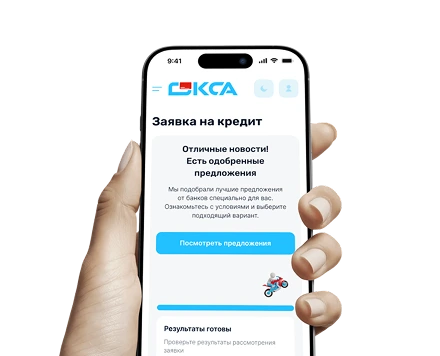
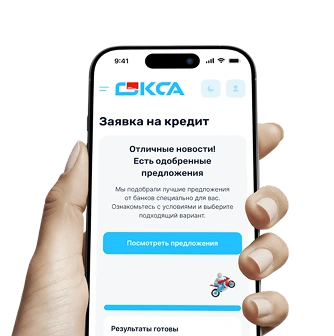
update images

diff --git a/client/src/pages/main/how_get/HowGet.jsx b/client/src/pages/main/how_get/HowGet.jsx
@@ -3,10 +3,16 @@ import style from "./howget.module.scss";
 import howGetImg1 from "../../../assets/images/main/how_get-1.webp";
 import howGetImg2 from "../../../assets/images/main/how_get-2.webp";
 import howGetImg3 from "../../../assets/images/main/how_get-3.webp";
+import howGetImg1Dark from "../../../assets/images/main/how_get-1-dark.webp";
+import howGetImg2Dark from "../../../assets/images/main/how_get-2-dark.webp";
+import howGetImg3Dark from "../../../assets/images/main/how_get-3-dark.webp";
 import { Link } from "react-router-dom";
 import notification from "../../../assets/icons/notification.png";
+import { useTheme } from "../../../hooks/useTheme";
 
 const HowGet = ({ scrollToBlock }) => {
+  const { theme } = useTheme();
+
   return (
     <section className={style.howget}>
       <div className="container">
@@ -25,7 +31,7 @@ const HowGet = ({ scrollToBlock }) => {
               <div className={style.howget__item__img__container}>
                 <img
                   className={style.howget__item__img}
-                  src={howGetImg1}
+                  src={theme === "light" ? howGetImg1 : howGetImg1Dark}
                   alt="Заполните заявку"
                 />
               </div>
@@ -46,7 +52,7 @@ const HowGet = ({ scrollToBlock }) => {
               <div className={style.howget__item__img__container}>
                 <img
                   className={style.howget__item__img}
-                  src={howGetImg2}
+                  src={theme === "light" ? howGetImg2 : howGetImg2Dark}
                   alt="Заполните заявку"
                 />
               </div>
@@ -83,7 +89,7 @@ const HowGet = ({ scrollToBlock }) => {
               <div className={style.howget__item__img__container}>
                 <img
                   className={style.howget__item__img}
-                  src={howGetImg3}
+                  src={theme === "light" ? howGetImg3 : howGetImg3Dark}
                   alt="Заполните заявку"
                 />
               </div>

diff --git a/client/src/hooks/useTheme.js b/client/src/hooks/useTheme.js
@@ -1,0 +1,72 @@
+import { useState, useEffect } from 'react';
+
+export function useTheme() {
+  const [theme, setThemeState] = useState('light');
+  const [isSystemTheme, setIsSystemTheme] = useState(true);
+
+  const getSystemTheme = () => {
+    if (typeof window === 'undefined') return 'light';
+    return window.matchMedia('(prefers-color-scheme: dark)').matches 
+      ? 'dark' 
+      : 'light';
+  };
+
+  useEffect(() => {
+    if (typeof window === 'undefined') return;
+    
+    const savedTheme = localStorage.getItem('theme');
+    const systemTheme = getSystemTheme();
+    
+    if (savedTheme) {
+      setThemeState(savedTheme);
+      setIsSystemTheme(false);
+    } else {
+      setThemeState(systemTheme);
+      setIsSystemTheme(true);
+    }
+  }, []);
+
+  useEffect(() => {
+    if (typeof window === 'undefined') return;
+    
+    document.documentElement.setAttribute('data-theme', theme);
+    
+    if (!isSystemTheme) {
+      localStorage.setItem('theme', theme);
+    } else {
+      localStorage.removeItem('theme');
+    }
+  }, [theme, isSystemTheme]);
+
+  useEffect(() => {
+    if (typeof window === 'undefined' || !isSystemTheme) return;
+    
+    const mediaQuery = window.matchMedia('(prefers-color-scheme: dark)');
+    
+    const handleChange = (e) => {
+      setThemeState(e.matches ? 'dark' : 'light');
+    };
+    
+    mediaQuery.addEventListener('change', handleChange);
+    return () => mediaQuery.removeEventListener('change', handleChange);
+  }, [isSystemTheme]);
+
+  const toggleTheme = () => {
+    setThemeState(prev => prev === 'light' ? 'dark' : 'light');
+    setIsSystemTheme(false);
+  };
+
+  const resetToSystemTheme = () => {
+    setIsSystemTheme(true);
+    setThemeState(getSystemTheme());
+  };
+
+  return {
+    theme,
+    isSystemTheme,
+    isDarkMode: theme === 'dark',
+    isLightMode: theme === 'light',
+    toggleTheme,
+    resetToSystemTheme
+  };
+}

diff --git a/client/src/pages/main/how_get/howget.module.scss b/client/src/pages/main/how_get/howget.module.scss
@@ -204,26 +204,22 @@
 
   &:nth-child(1) {
     .howget__item__img {
-      top: 20%;
-      left: -10%;
-
-      @media (max-width: 1200px) {
-        top: 25%;
-      }
+      top: 30%;
+      left: 0%;
 
       @media (max-width: 960px) {
         top: -15%;
         right: -10%;
-        left: 55%;
+        left: 65%;
       }
 
       @media (max-width: 768px) {
-        top: 0%;
-        right: -5%;
+        top: -15%;
+        left: 55%;
       }
 
       @media (max-width: 525px) {
-        right: -15%;
+        left: 45%;
       }
 
       @media (max-width: 425px) {
@@ -260,26 +256,22 @@
 
   &:nth-child(2) {
     .howget__item__img {
-      top: 25%;
-      left: -20%;
-
-      @media (max-width: 1200px) {
-        top: 30%;
-      }
+      top: 30%;
+      left: 0%;
 
       @media (max-width: 960px) {
         top: -10%;
         right: -10%;
-        left: 55%;
+        left: 65%;
       }
 
       @media (max-width: 768px) {
-        top: 5%;
-        right: -5%;
+        top: -15%;
+        left: 55%;
       }
 
       @media (max-width: 525px) {
-        right: -10%;
+        left: 45%;
       }
 
       @media (max-width: 425px) {
@@ -291,26 +283,22 @@
 
   &:nth-child(3) {
     .howget__item__img {
-      top: 5%;
-      left: -20%;
-
-      @media (max-width: 1200px) {
-        top: 10%;
-      }
+      top: 15%;
+      left: -5%;
 
       @media (max-width: 960px) {
         top: -45%;
         right: -5%;
-        left: 55%;
+        left: 65%;
       }
 
       @media (max-width: 768px) {
-        top: -20%;
-        right: -5%;
+        top: -50%;
+        left: 55%;
       }
 
       @media (max-width: 525px) {
-        right: -15%;
+        left: 45%;
       }
 
       @media (max-width: 425px) {

diff --git a/client/src/pages/main/service/Service.jsx b/client/src/pages/main/service/Service.jsx
@@ -1,9 +1,11 @@
 import React from "react";
 import style from "./service.module.scss";
 import servicePhoneImg from "../../../assets/images/main/service_phone.webp";
+import servicePhoneImgDark from "../../../assets/images/main/service_phone-dark.webp";
 import serviceItemImg1 from "../../../assets/images/main/service-1.webp";
 import serviceItemImg2 from "../../../assets/images/main/service-2.webp";
 import serviceItemImg3 from "../../../assets/images/main/service-3.webp";
+import { useTheme } from "../../../hooks/useTheme";
 
 const Service = () => {
   const serviceItems = [
@@ -28,6 +30,8 @@ const Service = () => {
       alt: "Быстро",
     },
   ];
+
+  const { theme } = useTheme();
 
   return (
     <section className={style.service}>
@@ -54,7 +58,10 @@ const Service = () => {
             </div>
 
             <div className={style.service__image}>
-              <img src={servicePhoneImg} alt="Сервис" />
+              <img
+                src={theme === "light" ? servicePhoneImg : servicePhoneImgDark}
+                alt="Сервис"
+              />
             </div>
           </div>
         </div>
